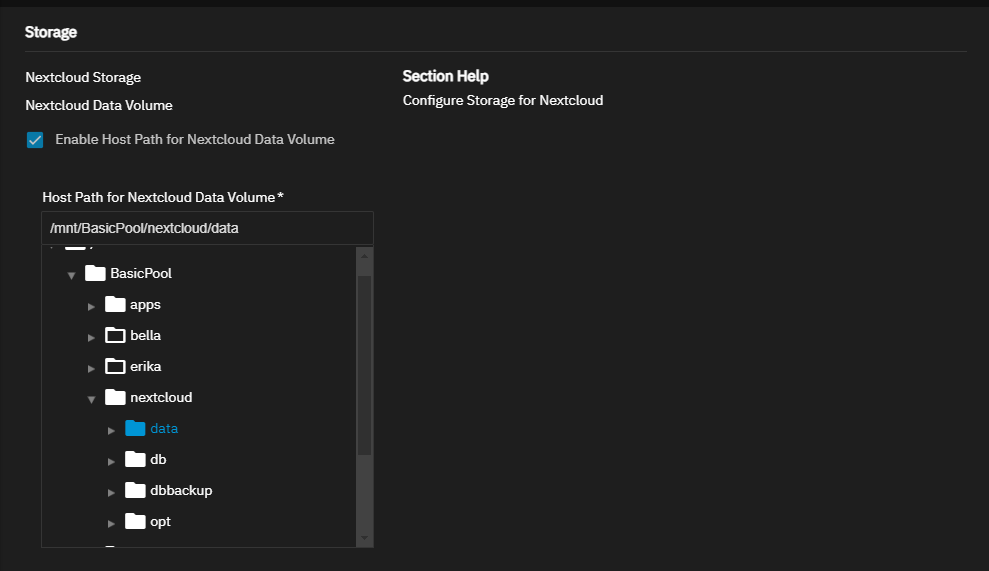
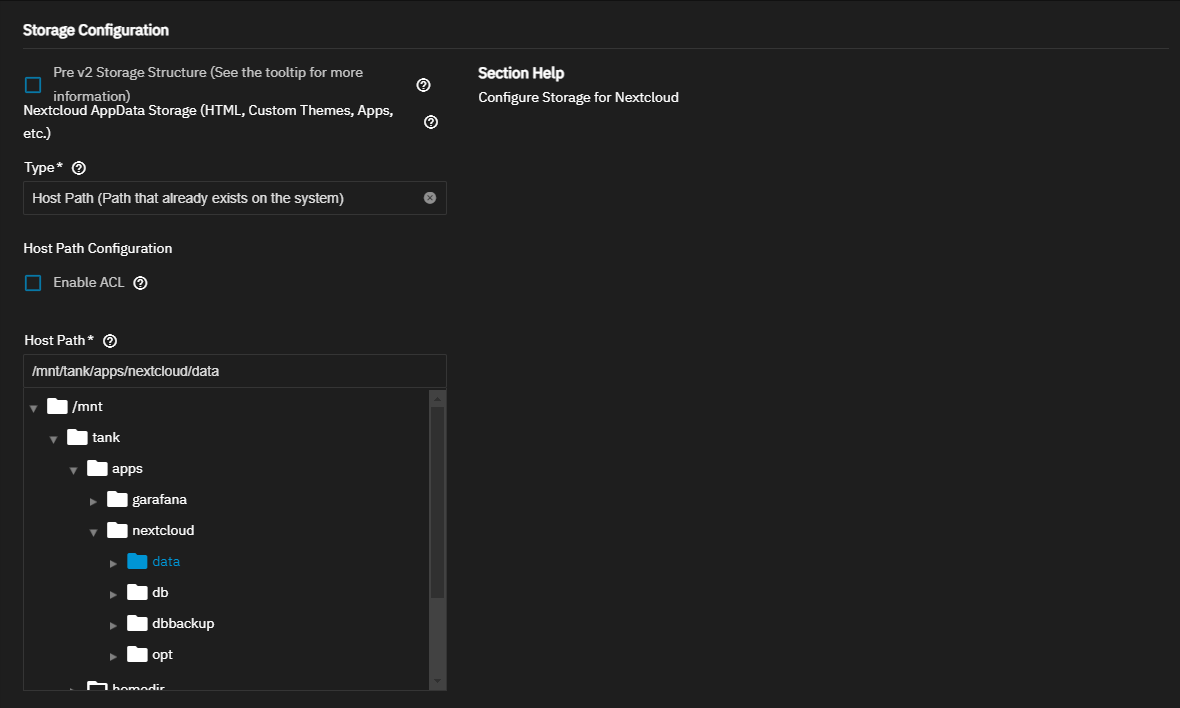
PD-1151 Update Nextcloud Tutoiral
This PR updates the information and screenshots in the Nextcloud turorial to reflect changes in the 24.04 UI.

Backport this change to 24.04

diff --git a/content/SCALE/SCALETutorials/Apps/CommunityApps/InstallNextCloudMedia.md b/content/SCALE/SCALETutorials/Apps/CommunityApps/InstallNextCloudMedia.md
@@ -20,10 +20,10 @@ The instructions in this article apply to SCALE 22.12.0 and later.
 
 ## Before You Begin
 
-Before using SCALE to install the Nextcloud application you need to configure TrueNAS SCALE storage for Nextcloud application to use.
+Before using SCALE to install the Nextcloud application you need to [create four datasets](#adding-nextcloud-storage) to use as storage for the Nextcloud application.
 
-If you are creating a user account to manage this application, create the user with sudo permissions enabled, or make sure the [local administrator]({{< relref "ManageLocalUsersSCALE.md" >}}) account has sudo permissions enabled.
-If creating a new user, add this user to the dataset permissions.
+If you are creating a user account to manage this application, add the [local administrator]({{< relref "ManageLocalUsersSCALE.md" >}}) account with sudo permissions enabled.
+If creating a new user, add this user to the dataset ACL permissions.
 
 If you want to use a certificate for this application, create a new self-signed CA and certificate, or import the CA and create the certificate if using one already configured for Nextcloud. A certificate is not required to deploy the application.
 
@@ -33,9 +33,9 @@ Set up an account with Nextcloud if you don't already have one. Enter this user 
 
 In this procedure you:
 
-1. Add the storage Nextcloud uses
+1. Add the storage for Nextcloud to use.
 
-2. Install the Nextcloud app in SCALE
+2. Install the Nextcloud app in SCALE.
 
 ### Adding Nextcloud Storage
 
@@ -75,16 +75,13 @@ When finished you should have the **nextcloud** parent dataset with four child d
 ### Installing Nextcloud in SCALE
 
 Go to **Apps**.
+If the pool for apps is not already set, do it when prompted.
 
-1. Set the pool SCALE applications use.
-   If you have not installed an application yet, click **Settings**, select **Choose Pool** to open the **Choose a pool for Apps** dialog.
-   Enter or select the name of the pool where you created the Nextcloud datasets from the **Pools** dropdown list and then click **Choose** to set the pool for all applications.
-
-   {{< trueimage src="/images/SCALE/Apps/AppsChooseAPoolForApps.png" alt="Choose A Pool for Apps" id="Choose A Pool for Apps" >}}
+{{< trueimage src="/images/SCALE/Apps/AppsChooseAPoolForApps.png" alt="Choose A Pool for Apps" id="Choose A Pool for Apps" >}}
 
    When set, the **Installed Applications** screen displays **Apps Service Running** on the top screen banner.
 
-2. Click **Discover Apps** and then locate the **Nextcloud** app.
+1. Click **Discover Apps** and then locate the **Nextcloud** app.
    Change the **Sort** to **App Name**, then type **Nextcloud** in the search field to display the app widget.
 
    {{< trueimage src="/images/SCALE/Apps/LocateNextcloudAppWidget.png" alt="Locate Nextcloud App Widget" id="Locate Nextcloud App Widget" >}}
@@ -102,48 +99,27 @@ Go to **Apps**.
 
    {{< trueimage src="/images/SCALE/Apps/InstallNextcloudScreen.png" alt="Install Nextcloud Screen" id="Install Nextcloud Screen" >}}
 
-3. Enter a name for the app in **Application Name** if you want to change what displays or have multiple Nextcloud app deployments on your system.
+2. Accept the default name for the app in **Application Name** or enter a new name if you want to change what displays or have multiple Nextcloud app deployments on your system.
    This example uses the default *nextcloud*.
 
-4. Scroll down to or click on **Nextcloud Configuration** to show the app configuration settings.
+3. Scroll down to or click on **Nextcloud Configuration** to show the app configuration settings.
    For a basic installation you can leave the default values in all settings except **Username** and **Password**.
 
-   a. (Optional) Click in the **Certificate Configuration** field and select the certificate for Nextcloud if already created and using a certificate.
-
-   b. Enter the Nextcloud username and password created in the [Before You Begin](#before-you-begin) section or existing Nextcould user account credentials.
-   This example uses *admin* as the user.
+   a. Enter the username and password created in the [Before You Begin](#before-you-begin) section or for the existing Nextcould administrator user account credentials.
+      This example uses *admin* as the user.
 
    {{< trueimage src="/images/SCALE/Apps/InstallNextcloudConfigUsernamePassword.png" alt="Nextcloud Configuration Username" id="Nextcloud Configuration Username" >}}
 
-   TrueNAS populates **Nextcloud host** with the IP address for your TrueNAS server and **Nextcloud data directory** populates with the correct path.
+   TrueNAS populates **Host** with the IP address for your TrueNAS server and **Nextcloud data directory** populates with the correct path.
 
-   Select **Install ffmpeg** to automatically install the utility FFmpeg when the container starts.
+   b. Click **Add** to the right of **Command** to show the **Command** field then click in that field and select **Install ffmpeg** to automatically install the FFmpeg utility when the container starts.
 
-   {{< trueimage src="/images/SCALE/Apps/InstallNextcloudConfigEnvironmentVariable.png" alt="Nextcloud Configuration Environment Variable" id="Nextcloud Configuration Environment Variable" >}}
+   {{< trueimage src="/images/SCALE/Apps/InstallNextcloudConfigAddInstallffmpetCommand.png" alt="Add Install ffmpeg Command" id="Add Install ffmpeg Command" >}}
 
-   TrueNAS populates the **Node Port to use for Nextcloud** field with the correct port number.
-   To specify an optional **Nextcloud environment** name and value, click the **Add** button.
 
-5. Enter the storage settings for each of the four datasets created for Nextcloud.
+   c. (Optional) Click in the **Certificate Configuration** field and select the certificate for Nextcloud if already created and using a certificate.
 
-   a. Select **Enable Host Path for Nextcloud Data Volume**, then browse to and select the **nextcloud/data** dataset to populate the **Host Path for Nextcloud Data Volume** field.
-
-   {{< trueimage src="/images/SCALE/Apps/InstallNextcloudEnableHostPath.png" alt="Enable Nextcloud Host Path" id="EnableNextcloud Host Path" >}}
-
-   b. Click **Add** to display the **Mount Path in Pod** and **Host Path** fields.
-      Enter or browse to select the host path for the **nextcloud/opt** dataset to populate the **Host Path** field, then enter the path in the **Mount Path in Pod** field. This example uses the **/mnt/tank/nextcloud/opt** path.
-
-   {{< trueimage src="/images/SCALE/Apps/InstallNetdataStorageExtraHostPath.png" alt="Add Host Path Nextcloud Data Volume" id="Add Host Path Nextcloud Data Volume" >}}
-
-   c. Select **Enable Host Path for Postgres Data Volume**, and then enter or browse to the **nextcloud/db** dataset location in **Host Path for Postgres Data Volume**.
-
-   {{< trueimage src="/images/SCALE/Apps/InstallNextcloudAddPostgresDataVolume.png" alt="Add Host Path for Postgres Data Volume" id="Add Host Path for Postgres Data Volume" >}}
-
-   d. Select **Enable Host Path for Postgres Backup Volume**, and then enter or browse to the **nextcloud/dbbackup** dataset location in the **Host Path for Postgres Backup Volume**.
-
-   {{< trueimage src="/images/SCALE/Apps/InstallNextcloudAddPostgresBackupVolume.png" alt="Add Host Path for Postgres Backup Volume" id="Add Host Path for Postgres Backup Volume" >}}
-
-6. Select **Enable cronjobs for nextcloud** on the **CronJob configuration** screen.
+   d. Leave **Cronjobs** selected which enables this by default. Select the schedule you want to use for the cron job option.
 
    {{< expand "Nextcloud Cron Jobs" "v" >}}
    NextCloud cron jobs only run while the app is running. If you stop the app, the cron job(s) do not run until you start the app again.
@@ -151,9 +127,38 @@ Go to **Apps**.
    For more information on formatting and using cron jobs, see [Managing Cron Jobs]({{< relref "ManageCronJobsSCALE.md" >}}).
    {{< /expand >}}
 
-7. Accept the remaining setting defaults on the **Scaling/Upgrade Policy** and **Advanced DNS Settings** screens.
+   e. To specify an optional **Environment Variable** name and value, click the **Add** button.
 
-8. Scroll up to review the configuration settings and fix any errors or **Save** to complete the installation.
+4. Accept the port number TrueNAS populates in the **Web Port** field in **Network Configuration**.
+
+5. Enter the storage settings for each of the four datasets created for the Nextcloud app.
+
+   Do not select **Pre v2 Storage Structure**. This slows down the installation and is not necessary.
+  
+   a. Select **Enable Host Path for Nextcloud Data Volume**, then browse to and select the **nextcloud/data** dataset to populate the **Host Path for Nextcloud Data Volume** field.
+
+   {{< trueimage src="/images/SCALE/Apps/InstallNextcloudEnableHostPath.png" alt="Add Nextcloud Storage Host Path" id="Add Nextcloud Storage Host Path" >}}
+
+    Enter or browse to select the path to the **data** dataset created for Nextcloud.
+
+    You can set the ACL permissions here by selecting **Enable ACL** but it not necessary. You can also change dataset permissions from the **Datasets** screen using the **Edit** button on the **Permissions** widget for the Nextcloud **Data** dataset.
+
+   b. Click **Add** to display the **Mount Path in Pod** and **Host Path** fields.
+      Enter or browse to select the host path for the **nextcloud/opt** dataset to populate the **Host Path** field, then enter the path in the **Mount Path in Pod** field. This example uses the **/mnt/tank/nextcloud/opt** path.
+
+    {{< trueimage src="/images/SCALE/Apps/InstallNextcloudStorageConfigPostgressHostPaths.png" alt="Add Nextcloud Storage Volumes" id="Add Nextcloud Storage Volumes" >}}
+
+   c. Scroll down to the next storage option for **Nextcloud User Data Storage** and select **Host Path** again.
+      Enter or browse to select the path for the **opt** dataset.
+   
+   d. Scroll down to select the storage for **Nextcloud Postgres Data Storage**, select **Host Path** and then enter or browse to the **nextcloud/db** dataset location.
+
+   e. Scroll down to **Nextcloud Postgres Backup Storage**, select **Host Path**, and then enter or browse to the path for the **dbbackup** dataset.
+
+6. Accept the remaining setting defaults.
+
+7. Scroll up to review the configuration settings and fix any errors or click **Install** to begin the installation.
+
    The **Installed** screen displays with the **nextcloud** app in the **Deploying** state.
    It changes to **Running** when ready to use.
    Click **Web Portal** on the **Application Info** widget to open the Nextcloud web portal sign-in screen.
@@ -161,9 +166,10 @@ Go to **Apps**.
 {{< trueimage src="/images/SCALE/Apps/NextcloudSignInScreen.png" alt="Nextcloud Sign In Screen" id="Nextcloud Sign In Screen" >}}
 
 ## Troubleshooting Tips
+The Nextcloud apps with releases earlier than 2.0.7 are known to have issues. Use the **Upgrade** option in the SCALE UI to update your Nextcloud release to 2.0.7.
 
 ### App Sticks in Deploying State
-If the app does not deploy, add the **www-data** user and group to the **/nextcloud** dataset but do not set recursive.
+If the app does not deploy, try adding the **www-data** user and group to the **/nextcloud** dataset but do not set recursive.
 Stop the app before editing the ACL permissions for the datasets.
 
 Next, add the **www-data** user and group to the **/nextcloud/data** dataset. You can set this to recursive, but it is not necessary.
